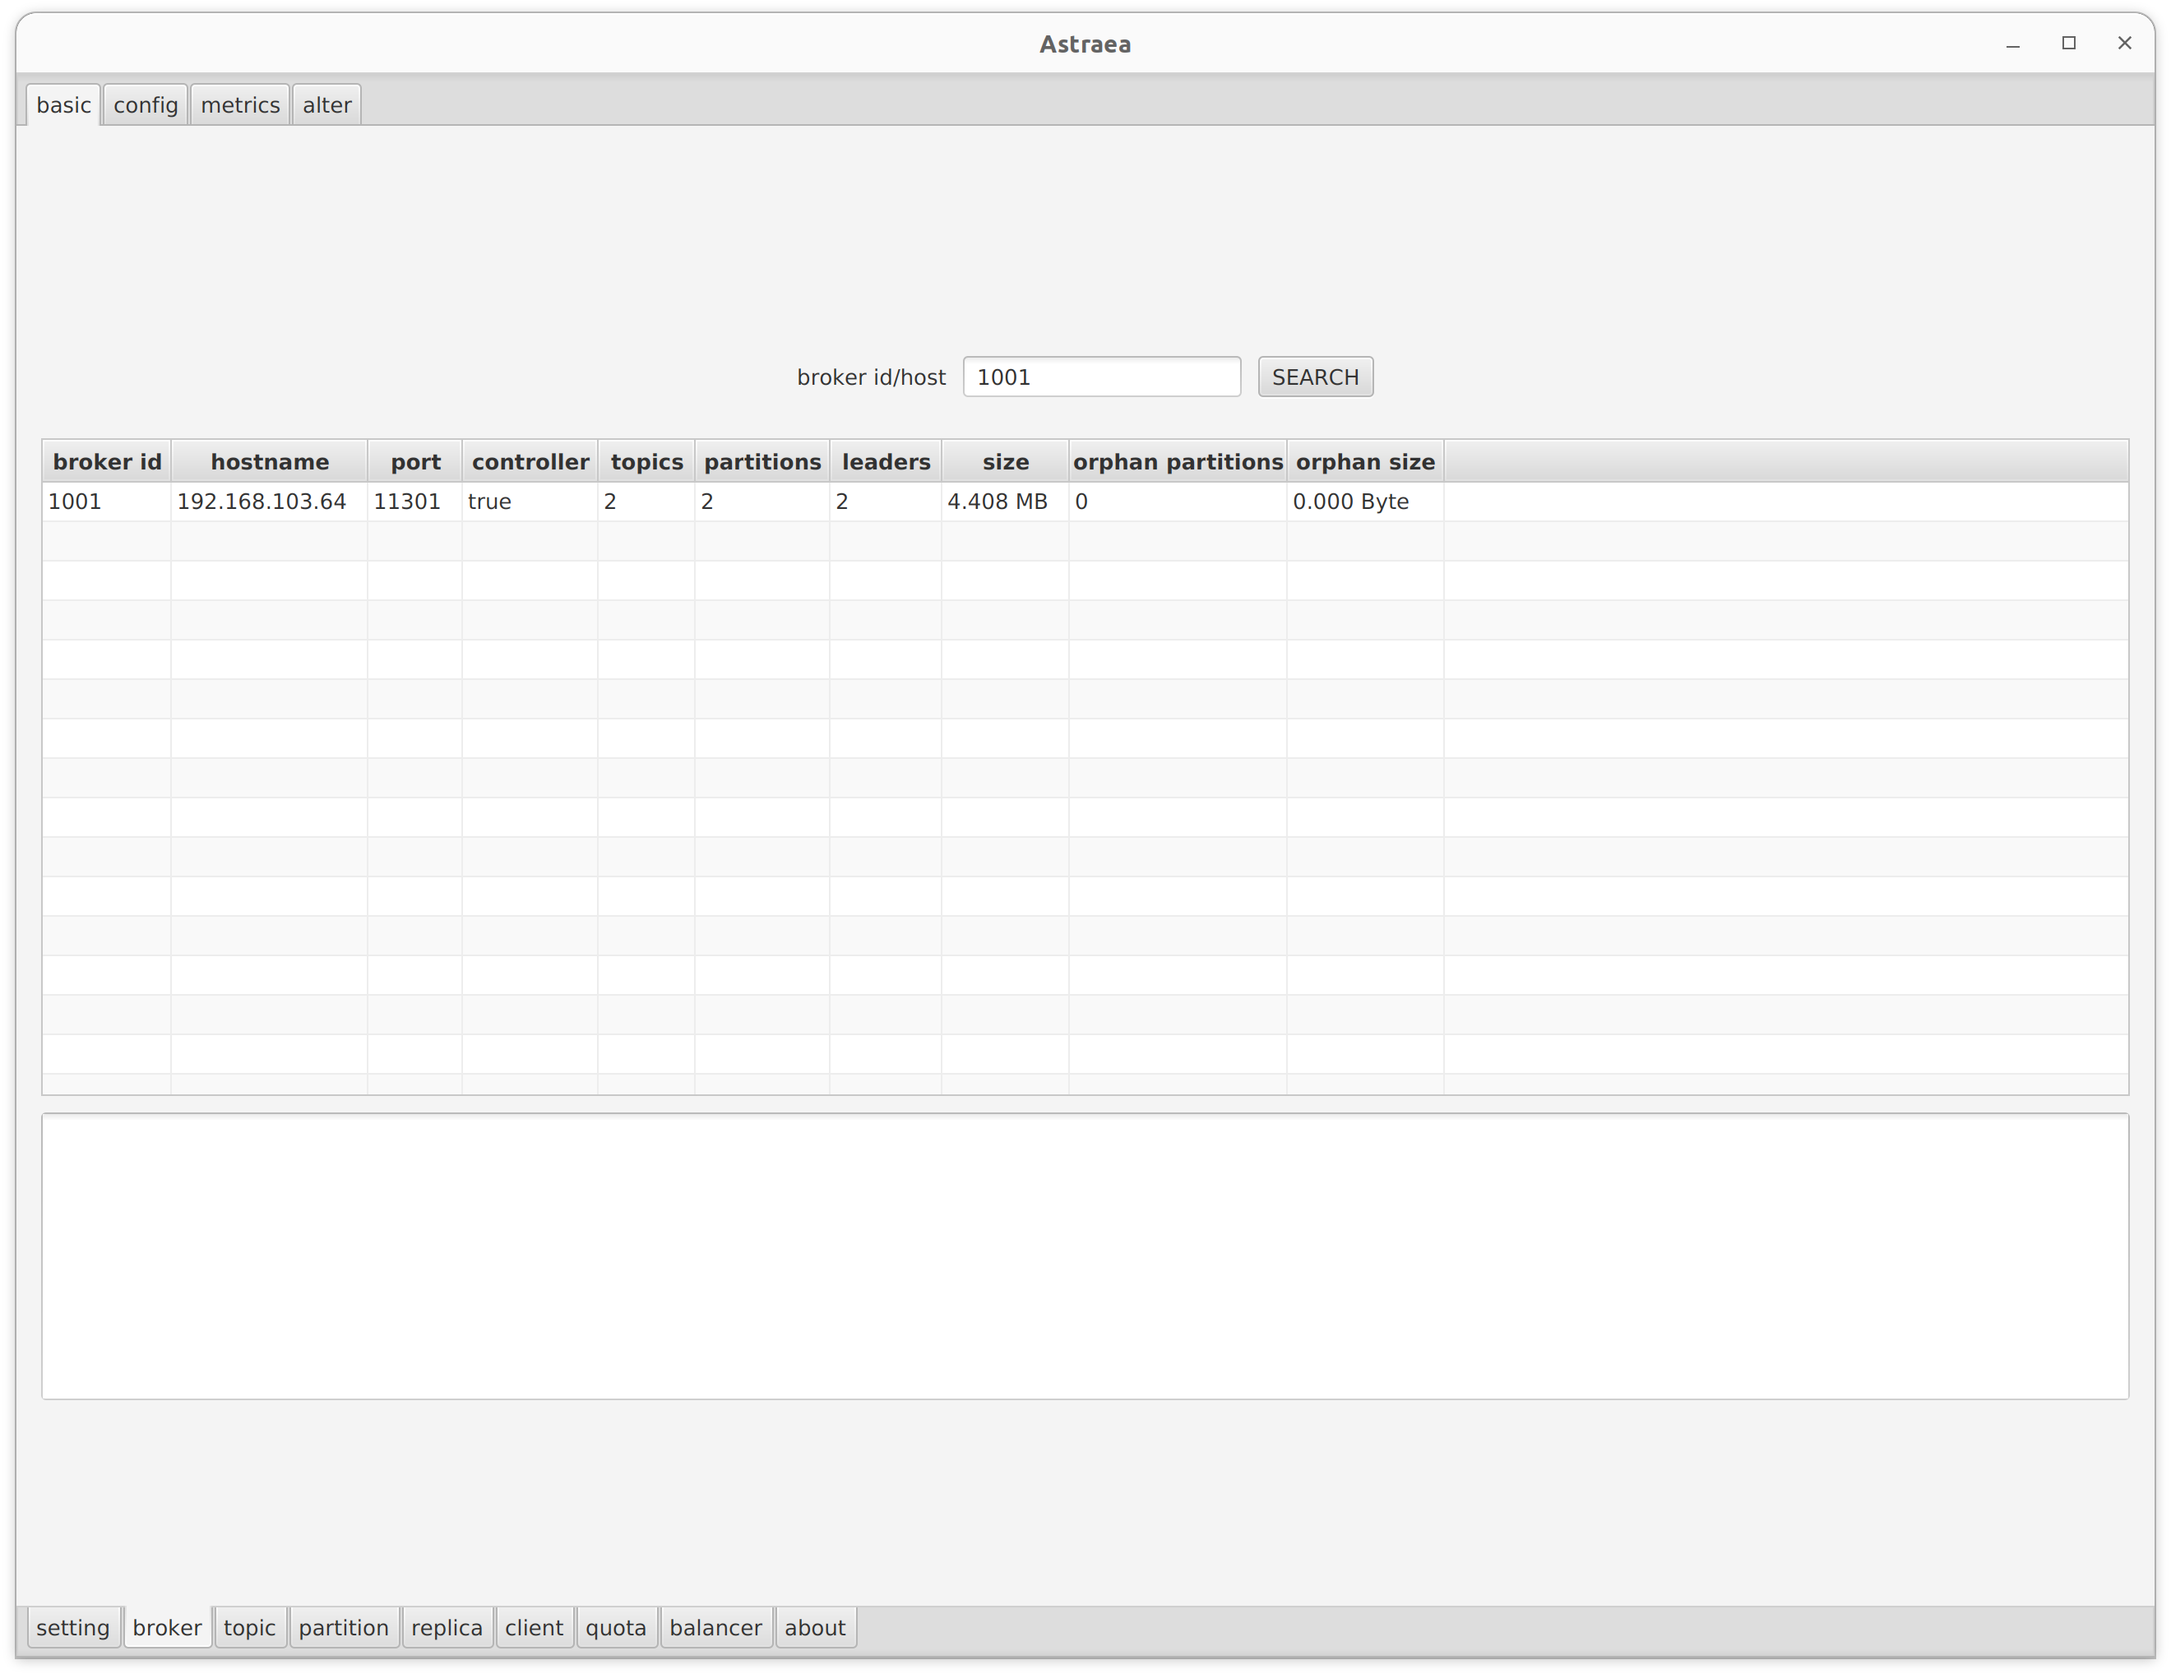
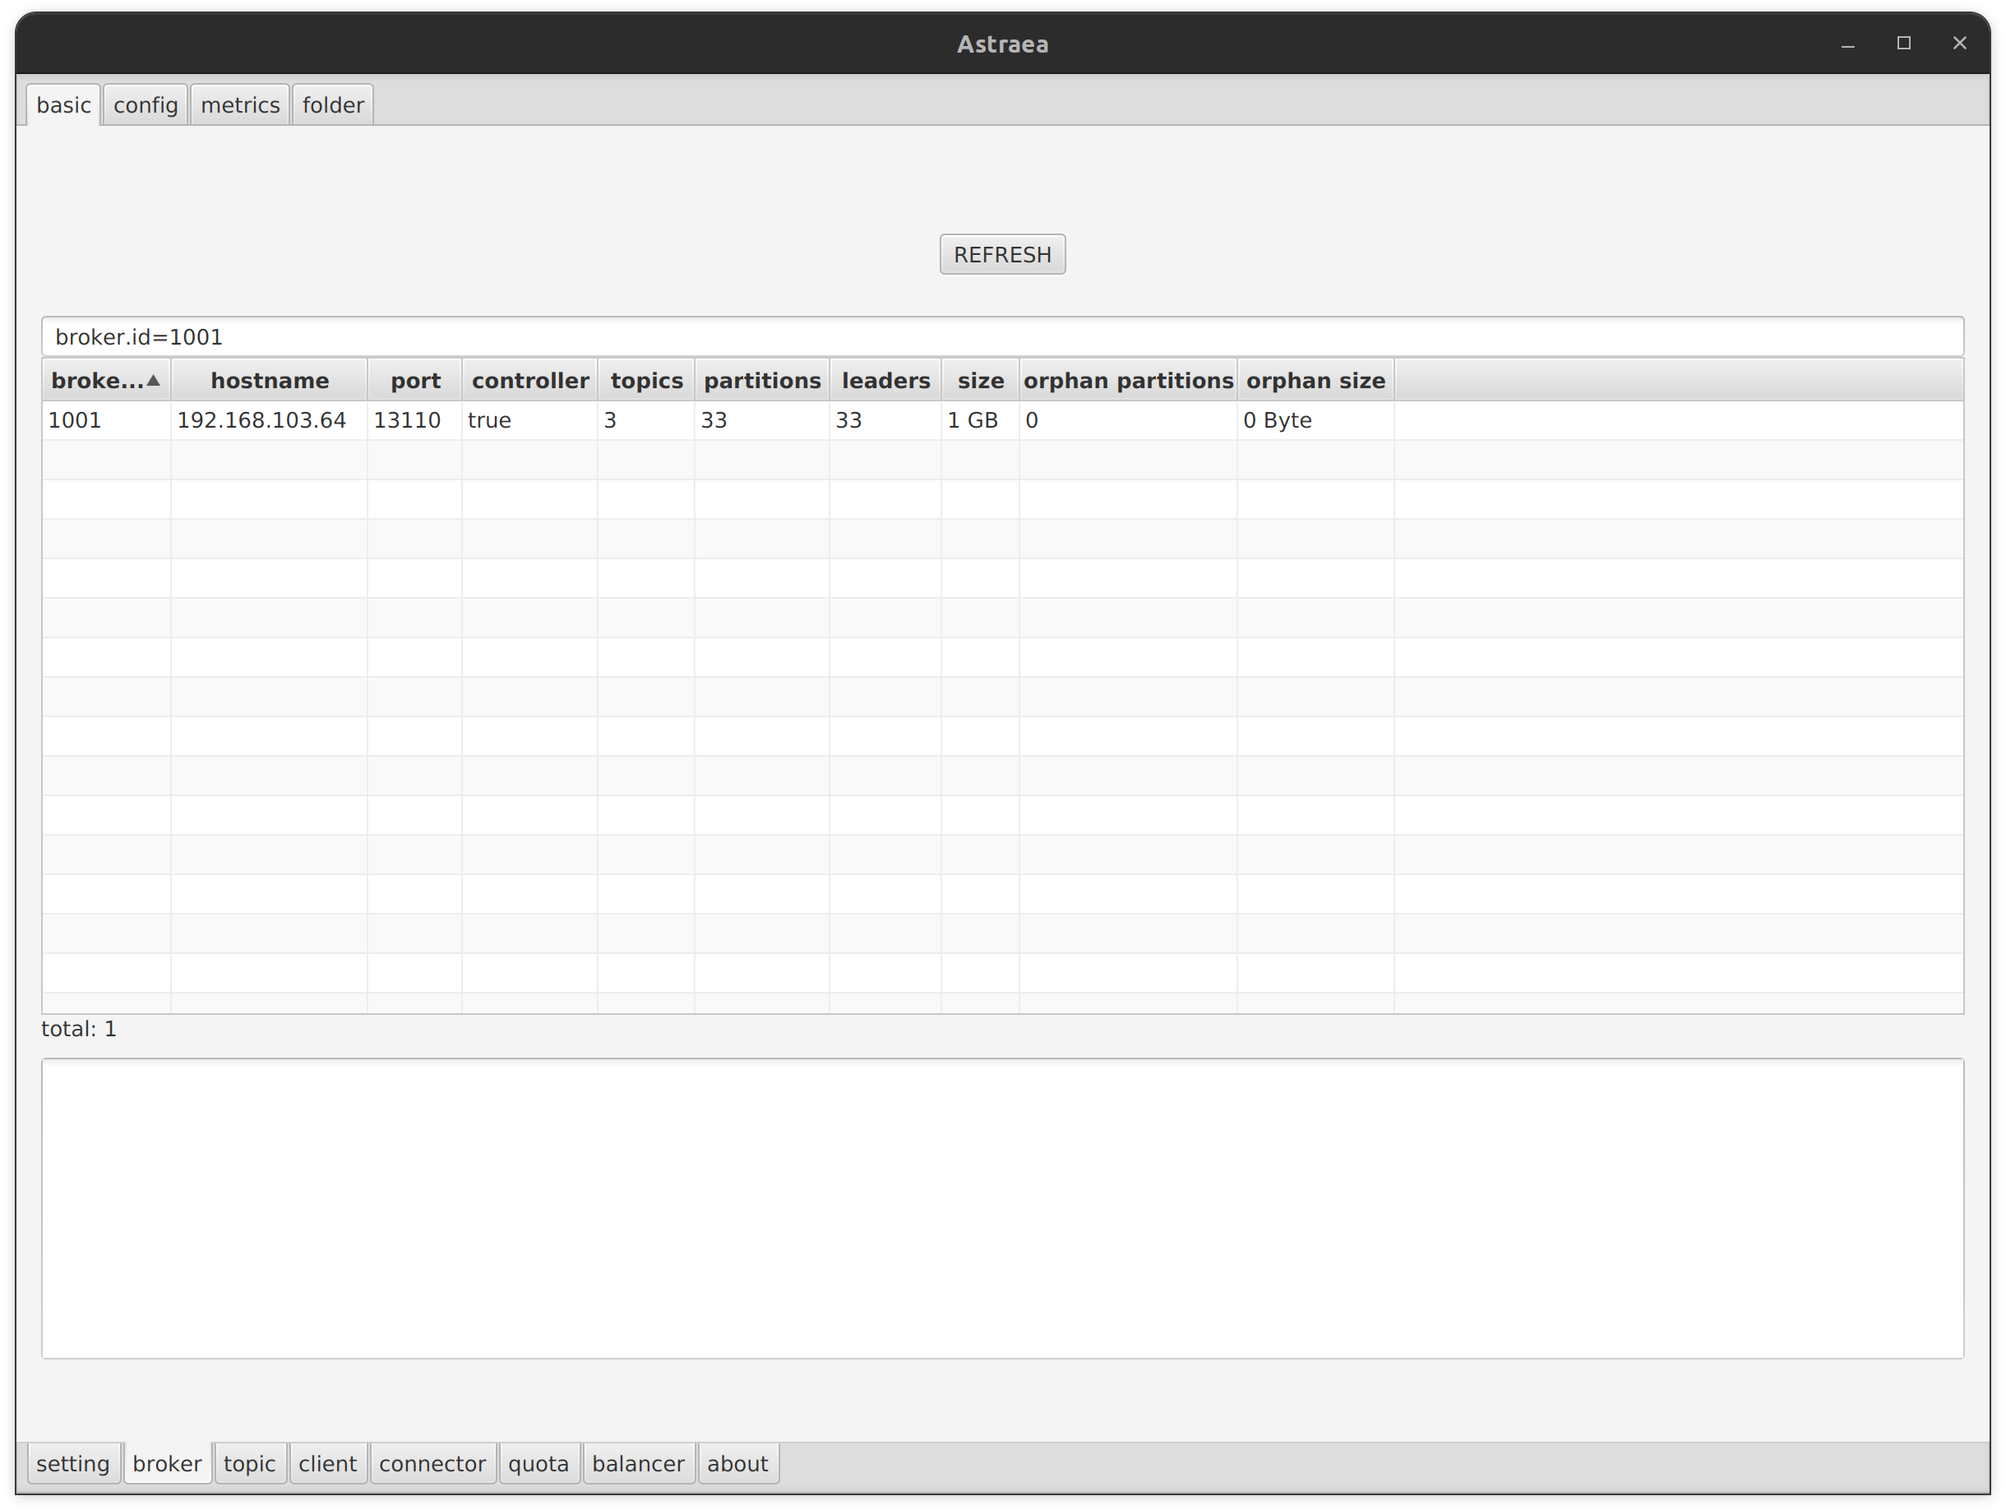
update broker tab docs and img

diff --git a/docs/gui/broker/README.md b/docs/gui/broker/README.md
@@ -5,7 +5,7 @@
 - [basic](#basic)
 - [config](#config)
 - [metrics](#metrics)
-- [alter](#alter)
+- [folder](#folder)
 
 ### basic
 `basic` 可以查詢所有或特定`broker/host`的基本資訊
@@ -21,19 +21,26 @@
 
 可以查詢`broker`內的各項`config`，搜尋部分支援正規表示法，可以進一步過濾查詢資料
 
+並且支援修改broker之設定
+
 ![broker-config 1](broker_config_1.png)
 *不指定`config key`*
 
 ![broker-config 2](broker_config_2.png)
-*指定兩個`key`的寫法*
+*指定`broker id`*
 
 
 ### metrics
 
 可以取得`broker`的各項指標，搜尋可支援正規表示法
 
+需要在最初輸入 `jmx port`才可以使用此頁面
+
 指標種類有以下項目:
 
+- info
+- zookeeper request
+- zookeeper session
 - host
 - controller
 - controller state
@@ -45,9 +52,11 @@
 ![broker-metrics 1](broker_metrics_1.png)
 *查看`host`的資訊*
 
-### alter
+### folder
 
-可以在此頁面檢視與修改 `broker` 的設定
+可以在此看到所有`broker`中的`folder`資訊，有其位置，大小等資訊
+
+並且可以透過歸表示法進行搜尋
 
 ![broker-alter 1](broker_alter_1.png)
-*快速查看`broker`資訊，並且可以透過下方按鈕變更*
+*查看`folder`資訊*
